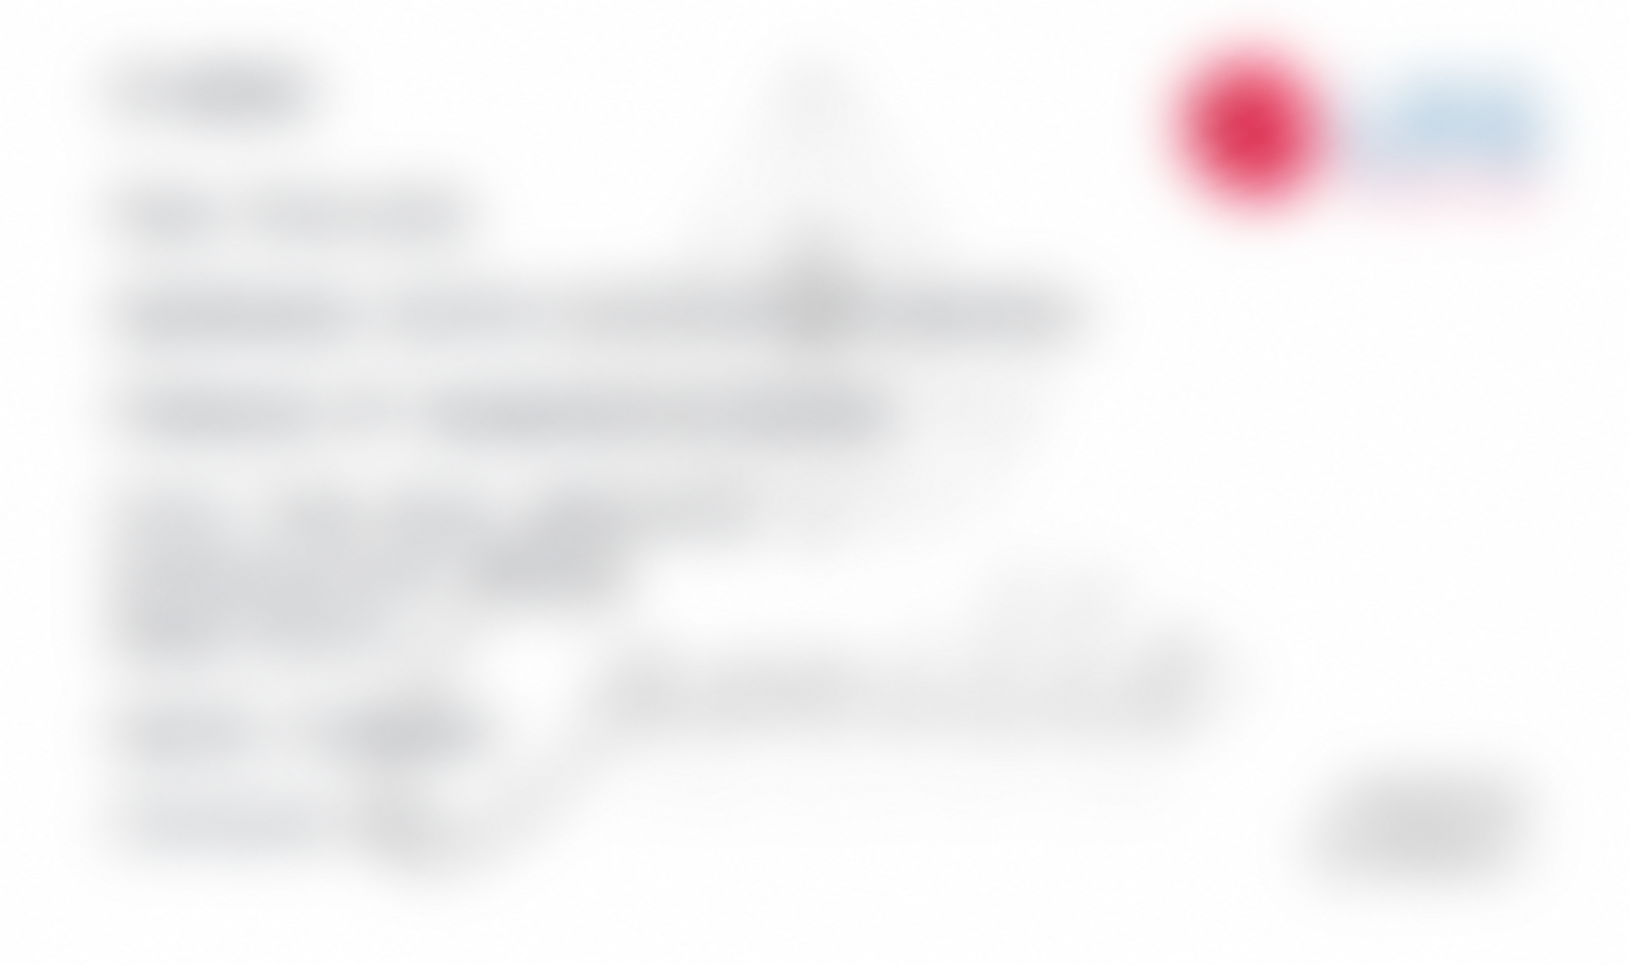
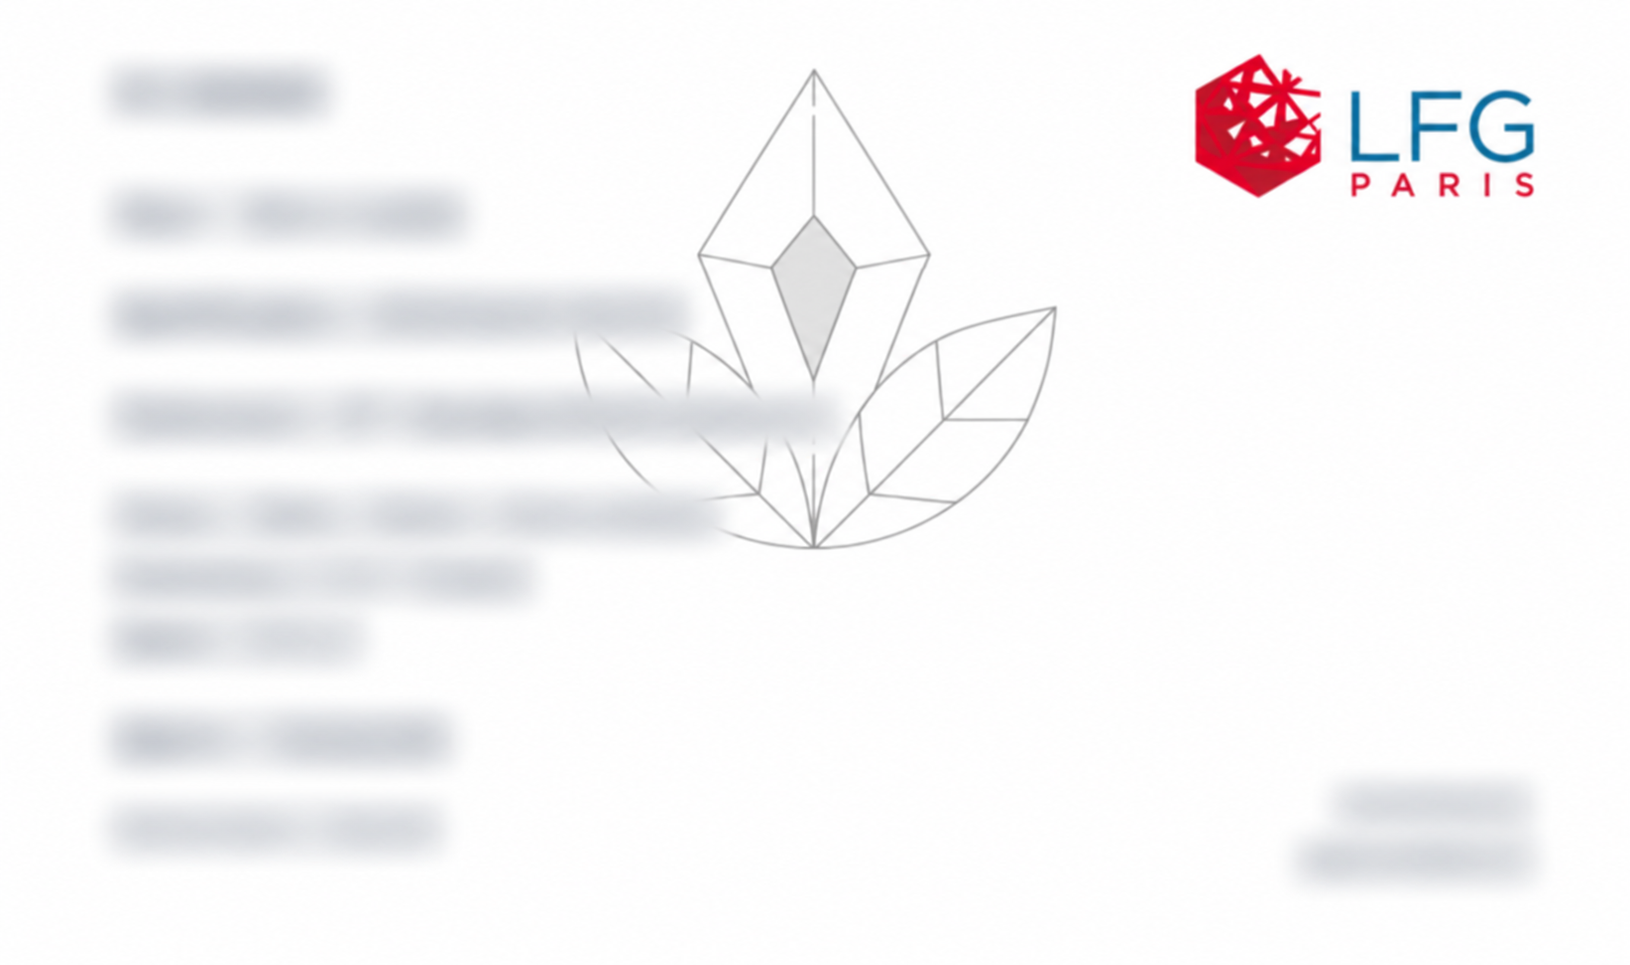
fix: soften certificate redaction

diff --git a/docs/workstreams.md b/docs/workstreams.md
@@ -6,7 +6,7 @@
 - Objectif : aligner le premier palier configure de 20 a 30 euros, presenter avec leur limite quatre rapports d authenticite fournisseur, puis remplacer la vitrine haute par trois messages compacts, tournants et cliquables.
 - Theme de recette reserve : preview privee `201115566427`. Le theme public `190430282075`, les produits, pages, collections, medias Shopify et metachamps restent hors perimetre sans GO separe.
 - Gates : PASS technique et preview, puis GO visuel et editorial de Patrice. La creation de `/pages/nos-pierres-et-leurs-certificats`, l integration et le live restent des actions distinctes non autorisees a ce stade.
-- Etat au 2026-09-12 18:44 CEST : PREVIEW TECHNIQUE PRETE APRES PROTECTION DES DOCUMENTS, BANDEAU VALIDE PAR PATRICE APRES PASSAGE AU ROSE, GO FINAL DE LA LANDING EN ATTENTE. Le nom commercial du fournisseur n apparait plus dans le texte public. Les 340 rapports et l OCR restent dans l archive de travail privee. Les quatre fichiers presents sur le theme prive sont des apercus dont le floutage est integre dans les pixels ; les liens d ouverture, la consigne d agrandissement et le lien vers le portail fournisseur ont ete retires. Push cible de six fichiers et pullback six sur six identique. Controle reel a 390 px et en bureau : zero lien de scan, zero lien fournisseur et aucun debordement horizontal. Les informations restent presentees comme portant sur des echantillons, sans rattachement individuel a un produit MilAura. Risque restant : le depot GitHub est public et l ancien commit `d77c0e46`, contenu uniquement dans cette branche locale et distante, conserve les quatre scans lisibles. Sa reecriture ciblee demande un GO destructif distinct. Aucun Admin, theme public ou module de preuve sociale PDP touche.
+- Etat au 2026-09-12 18:54 CEST : PREVIEW TECHNIQUE PRETE APRES PROTECTION DES DOCUMENTS, BANDEAU VALIDE PAR PATRICE APRES PASSAGE AU ROSE, GO FINAL DE LA LANDING EN ATTENTE. Le nom commercial du fournisseur n apparait plus dans le texte public. Inventaire confirme : 340 rapports recuperes sur 8 pages, 340 OCR, 0 echec ; quatre exemples seulement sont montres et les 336 autres restent dans l archive privee. Apres refus du flou integral, les quatre apercus conservent la structure du rapport, le logo LFG et l illustration de la pierre, tandis que les informations et le filigrane fournisseur sont masques dans les pixels. Zero lien de scan et zero lien fournisseur. Push cible de quatre fichiers, pullback quatre sur quatre identique et recette mobile 390 px sans debordement. Risque restant : le depot GitHub est public et l ancien commit `d77c0e46`, contenu uniquement dans cette branche locale et distante, conserve les quatre scans lisibles. Sa reecriture ciblee demande un GO destructif distinct. Aucun Admin, theme public ou module de preuve sociale PDP touche.
 
 ## Conseils de Karine dans les bandes de reassurance du 2026-09-10
 

diff --git a/docs/checkpoints/2026-09-12-1745-certificates-preview.md b/docs/checkpoints/2026-09-12-1745-certificates-preview.md
@@ -2,7 +2,7 @@
 
 Date : 2026-09-12 17:45 CEST
 
-Statut : preview privee techniquement validee apres protection des documents. Bandeau valide par Patrice le 2026-09-12 apres correction rose. A 18:44 CEST, les quatre documents ont ete remplaces par des apercus definitivement floutes a la demande du fournisseur. La page et le theme prive ne servent plus les scans lisibles. La purge de l'ancien commit sur la branche GitHub publique exige cependant un GO destructif distinct. Le GO final de la landing, Shopify Admin, l'integration Git et la publication live restent distincts et ouverts.
+Statut : preview privee techniquement validee apres protection des documents. Bandeau valide par Patrice le 2026-09-12 apres correction rose. A 18:54 CEST, le flou integral juge trop fort par Patrice a ete remplace par un masquage localise : structure du rapport, logo LFG et illustration de la pierre visibles ; informations et filigrane fournisseur illisibles. La page et le theme prive ne servent plus les scans lisibles. La purge de l'ancien commit sur la branche GitHub publique exige cependant un GO destructif distinct. Le GO final de la landing, Shopify Admin, l'integration Git et la publication live restent distincts et ouverts.
 
 ## Objectif et portee
 
@@ -57,6 +57,8 @@ Le push est reste cible sur le theme prive. Les deux derniers fichiers alignent 
 - Retour Patrice du 2026-09-12 a 18:02 CEST : bandeau valide, fond passe de l'aigue-marine au quartz rose poudre canonique. Le texte public nomme maintenant `l'un de nos fournisseurs` sans exposer son nom commercial a l'ouverture. Push prive cible et pullback 2 sur 2 identique. Controle a 390 px : H1 sur deux lignes et aucun debordement.
 - Retour Patrice du 2026-09-12 a 18:39 CEST : les documents complets ne doivent pas etre accessibles publiquement. Le floutage est integre dans les pixels des quatre images ; la page n'utilise donc pas un simple filtre CSS reversible.
 - Push cible de six fichiers sur le theme prive `201115566427`, puis pullback six sur six identique. Controle reel a 390 px et en bureau : cinq apercus proteges affiches, zero lien vers un scan, zero lien vers le portail fournisseur et aucun debordement horizontal.
+- Retour Patrice du 2026-09-12 a 18:54 CEST : flou integral refuse. Les quatre apercus utilisent maintenant un masquage localise plus leger. Push cible de quatre fichiers, pullback quatre sur quatre identique et nouvelle recette mobile 390 px conforme.
+- Inventaire prive confirme : 340 rapports recuperes sur 8 pages, 340 traites par OCR et 0 echec de telechargement. La landing montre quatre exemples seulement ; les 336 autres restent dans l archive de travail privee.
 
 Captures : `output/playwright/certificates-preview-2026-09-12/`.
 
